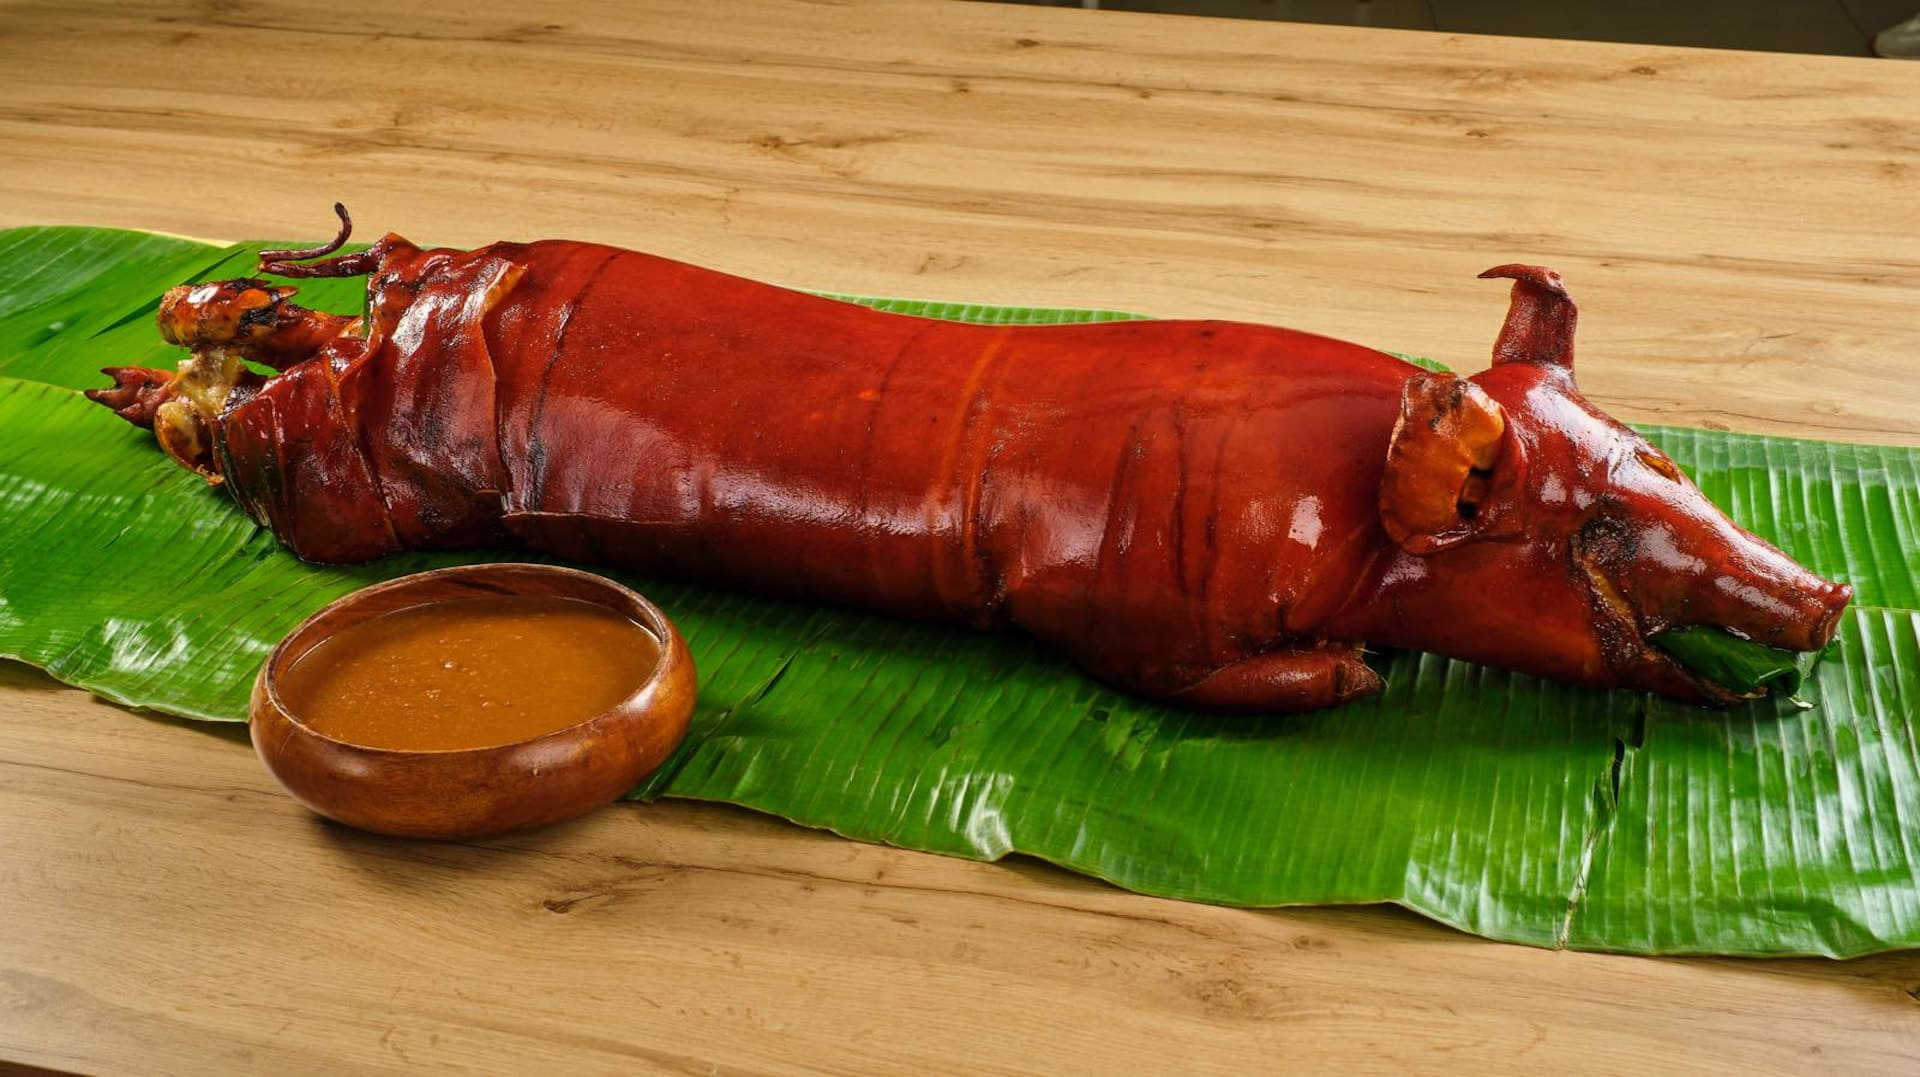
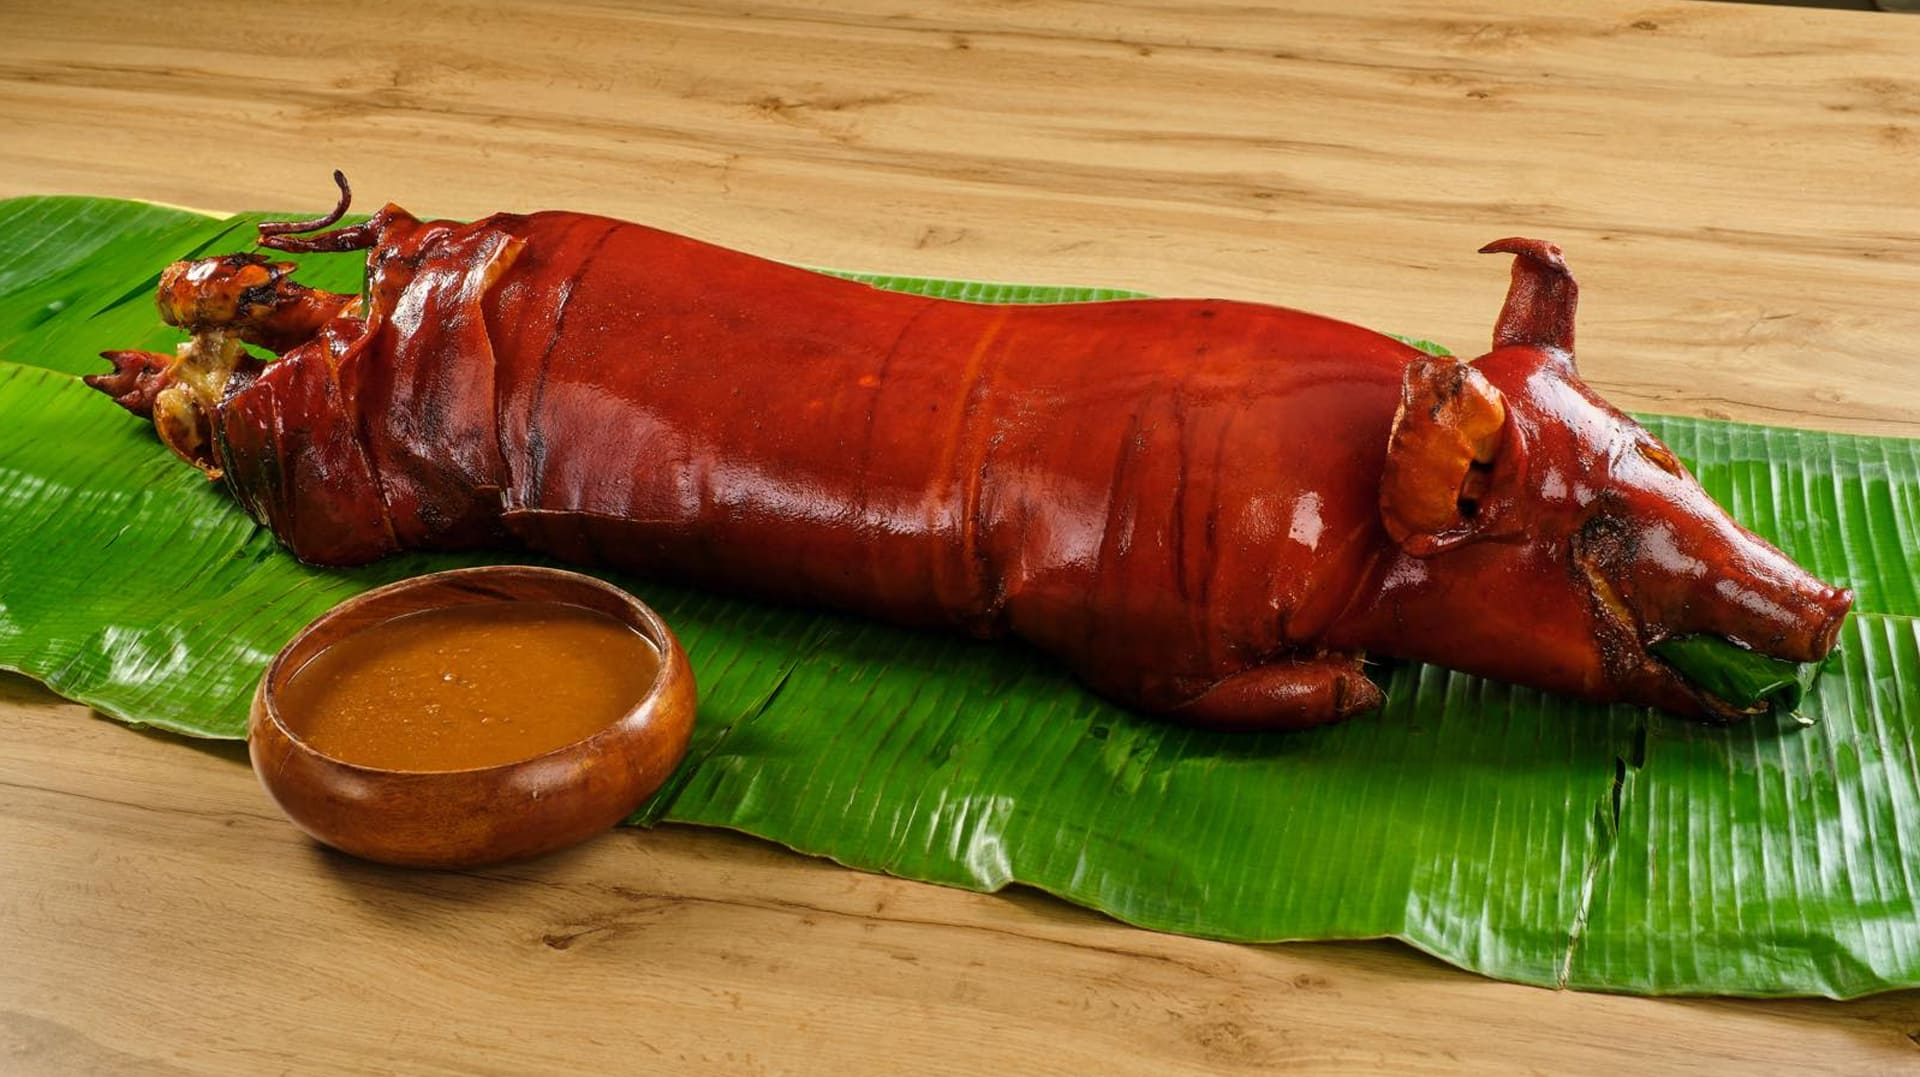
update

diff --git a/resources/views/v2/our-stores.blade.php b/resources/views/v2/our-stores.blade.php
@@ -1,8 +1,8 @@
 @extends('layouts.guest')
 
-@section('title', 'Stores')
-@section('meta_description', 'Find Lydia’s Lechon stores near you. With over 20 locations across Metro Manila, enjoy our famous lechon goodness in every neighborhood. Visit us today!')
-
+@section('title', $page->meta_title ?? $page->label)
+@section('meta_description', $page->meta_description ?? 'Find Lydia’s Lechon stores near you. With over 20 locations across Metro Manila, enjoy our famous lechon goodness in every neighborhood. Visit us today!')
+@section('image', $page->image_url ?? null)
 @section('content')
 
 <div 
@@ -20,11 +20,9 @@ x-data="{
 <div 
     class="bg-cream">
     <div class="py-20 px-4 container ">
-        <h1 class="text-4xl lg:text-7xl font-cubao font-medium text-primary text-center my-10 max-w-3xl mx-auto">lechon
-            goodness in every neighborhood</h1>
-        <p class="text-center text-base lg:text-2xl max-w-3xl mx-auto">With over <strong>20 stores</strong> across Metro
-            Manila, Lydia’s Lechon brings our famous roast lechon closer to you. Find your nearest branch and enjoy a
-            taste of Filipino tradition, making every meal a celebration.</p>
+        @if ($page->contents)
+        {!! $page->contents !!}
+        @endif
     </div>
 
     <div class="relative mx-auto bg-cream">

diff --git a/resources/views/layouts/guest.blade.php b/resources/views/layouts/guest.blade.php
@@ -12,7 +12,7 @@
 
     <meta property="og:title" content="@yield('title', 'Lydia\'s Lechon')">
     <meta property="og:description" content="@yield('meta_description', 'Lydia\'s Lechon - The Best Lechon in the Philippines')">
-    <meta property="og:image" content="{{ asset('images/lydia-store-img2.png') }}">
+    <meta property="og:image" content="@yield('image', asset('images/lydia-store-img2.png'))">
     <meta property="og:url" content="{{ url()->current() }}">
     <meta property="og:type" content="website">
     <meta property="og:site_name" content="{{ config('app.name', 'Lydia\'s Lechon') }}">
@@ -20,7 +20,7 @@
     <meta name="twitter:card" content="summary_large_image">
     <meta name="twitter:title" content="@yield('title', 'Lydia\'s Lechon')">
     <meta name="twitter:description" content="@yield('meta_description', 'Lydia\'s Lechon - The Best Lechon in the Philippines')">
-    <meta name="twitter:image" content="{{ asset('images/lydia-store-img2.png') }}">
+    <meta name="twitter:image" content="@yield('image', asset('images/lydia-store-img2.png'))">
     <meta name="twitter:site" content="@lydiaslechon">
     <meta name="twitter:creator" content="@lydiaslechon">
     <meta name="twitter:url" content="{{ url()->current() }}">

diff --git a/app/Http/Controllers/FrontendController.php b/app/Http/Controllers/FrontendController.php
@@ -13,6 +13,7 @@ use App\Mail\WelcomeEmail;
 use App\Models\Article;
 use App\Models\ArticleCategory;
 use App\Models\Deliverablecities;
+use App\Models\Page;
 use App\Models\Product;
 use App\Models\ProductCategory;
 use App\Models\Setting;
@@ -66,7 +67,9 @@ class FrontendController extends Controller
         $malls = Branch::where('branch_type', 'Mall Based Foodcourt')->where('is_head_office', 0)->get();
         $kiosks = Branch::where('branch_type', 'Kiosk')->where('is_head_office', 0)->get();
 
-        return view('v2.our-stores', compact('headOffices', 'branches', 'outlets', 'malls', 'kiosks'));
+        $page = Page::where('slug', 'stores')->first();
+
+        return view('v2.our-stores', compact('headOffices', 'branches', 'outlets', 'malls', 'kiosks', 'page'));
     }
 
     public function lechon_pricelist()

diff --git a/routes/web.php b/routes/web.php
@@ -39,7 +39,7 @@ use Illuminate\Support\Str;
 Route::get('/', [FrontendController::class, 'index'])->name('home');
 Route::get('/home', [FrontendController::class, 'home'])->name('index');
 Route::get('/our-story', [FrontendController::class, 'our_story'])->name('our-story');
-Route::get('/our-stores', [FrontendController::class, 'our_stores'])->name('our-stores');
+Route::get('/stores', [FrontendController::class, 'our_stores'])->name('our-stores');
 Route::get('/lechon-pricelist', [FrontendController::class, 'lechon_pricelist'])->name('lechon-pricelist');
 Route::get('/menu', [FrontendController::class, 'lechon_menu'])->name('lechon-menu');
 Route::get('/checkout', [FrontendController::class, 'checkout'])->name('checkout');

diff --git a/resources/views/admin/pages/edit.blade.php b/resources/views/admin/pages/edit.blade.php
@@ -9,6 +9,8 @@
 	<script src="{{ asset('lib/ckeditor/ckeditor.js') }}"></script>
     <link href="{{ asset('lib/owl.carousel/assets/owl.carousel.min.css') }}" rel="stylesheet">
     <link href="{{ asset('lib/owl.carousel/assets/owl.theme.default.min.css') }}" rel="stylesheet">
+    <script src="https://cdn.jsdelivr.net/npm/@tailwindcss/browser@4"></script>
+
 @endsection
 
 @section('content')
